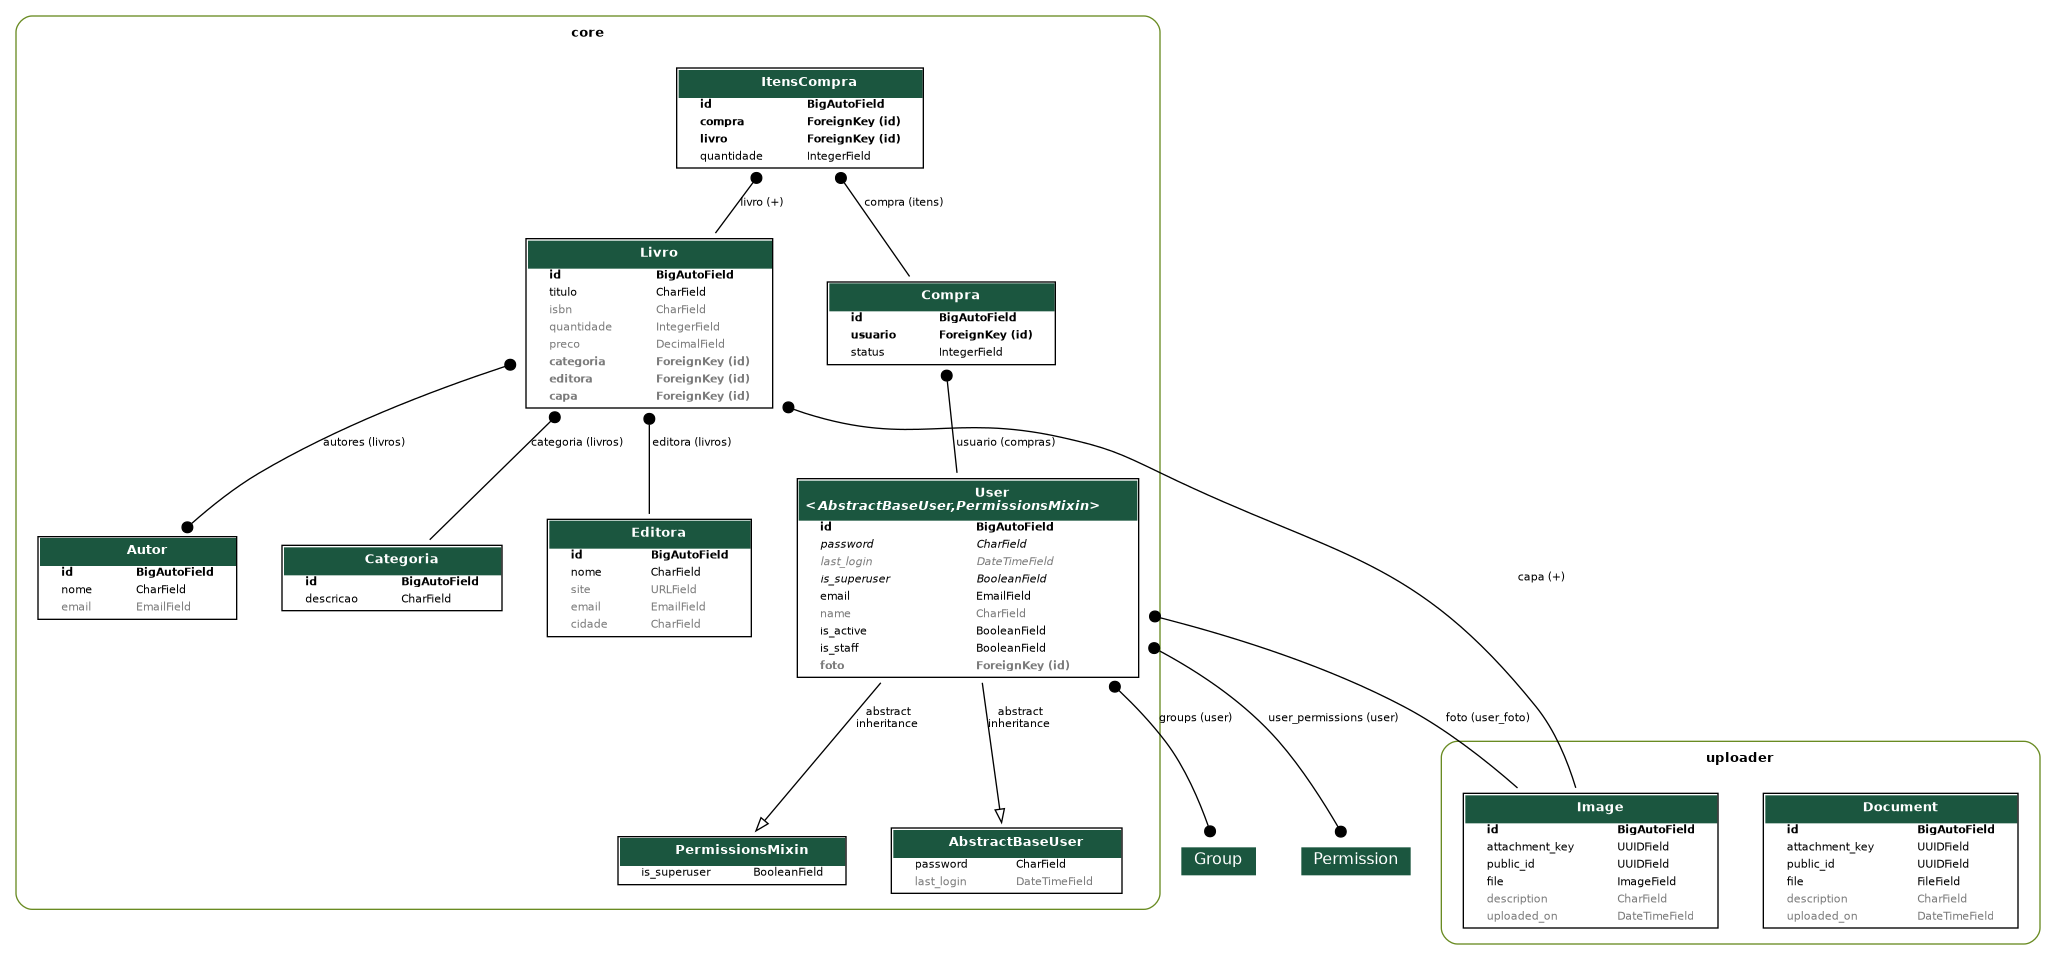
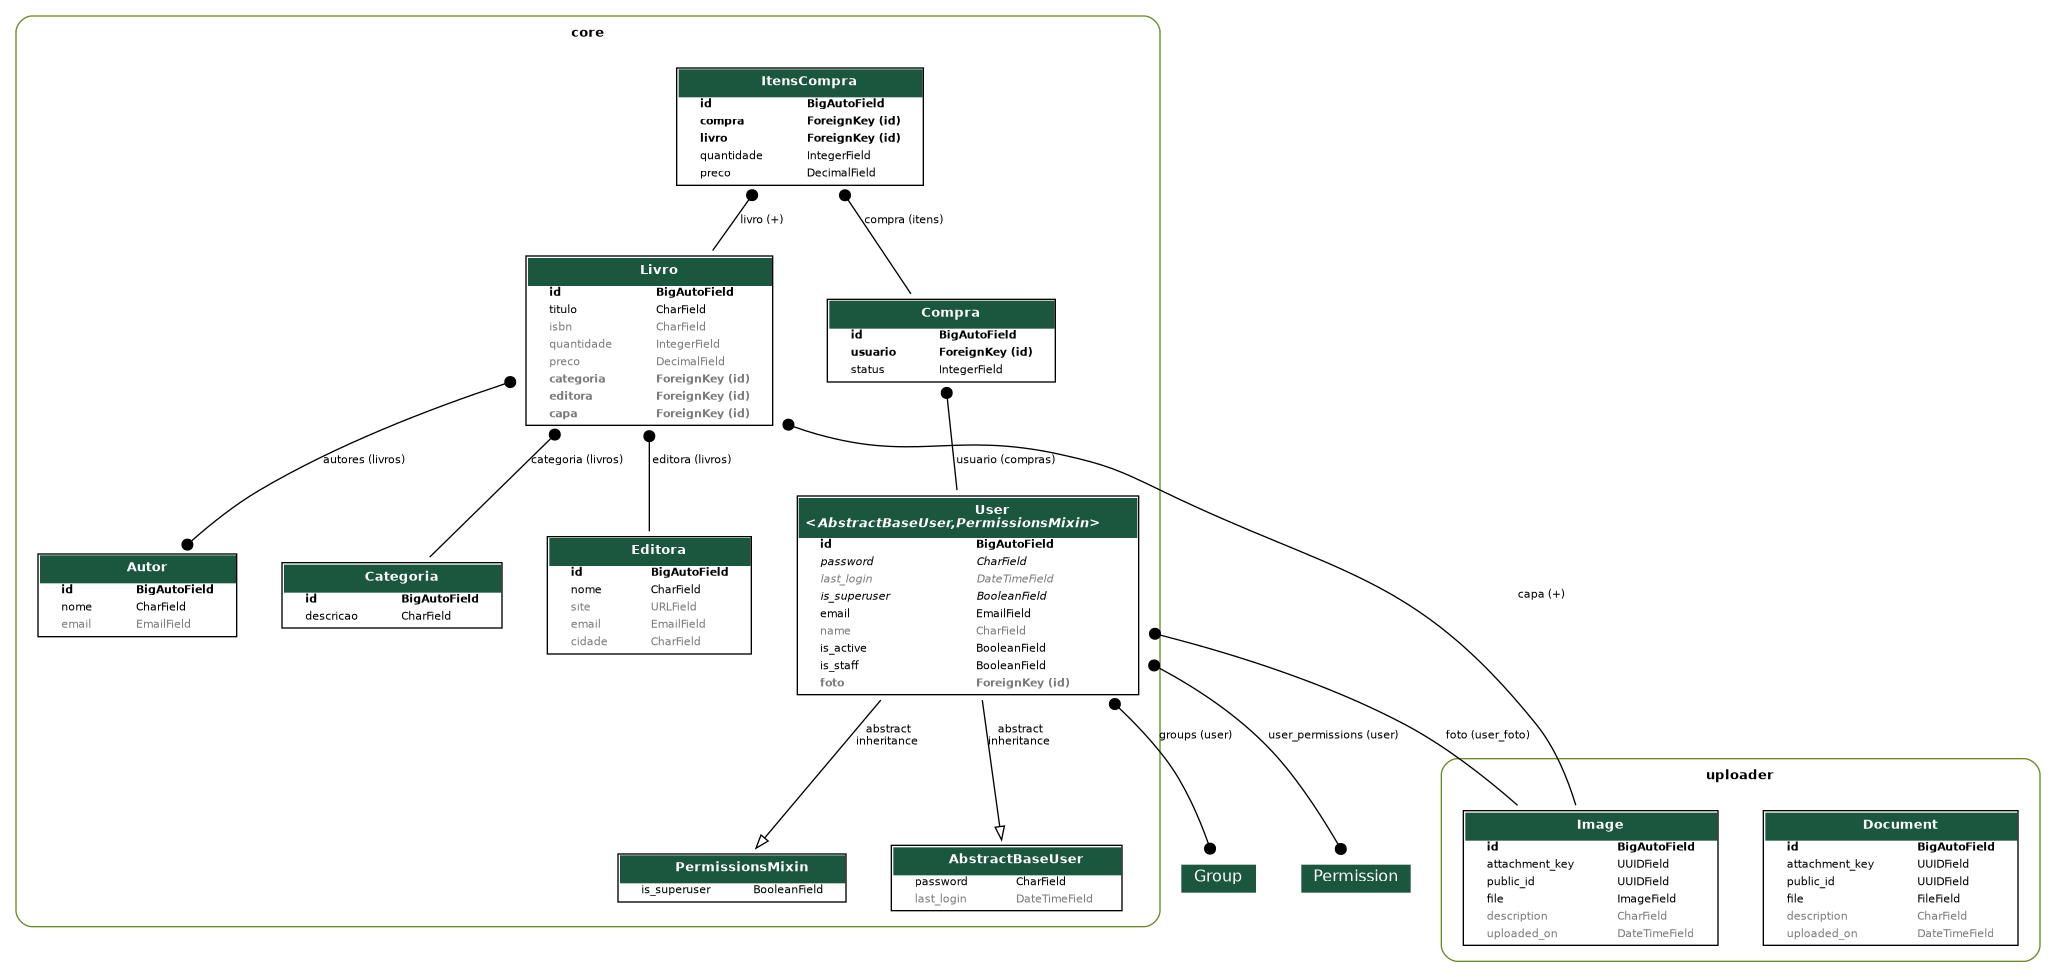
FEAT: Gravação do preço do livro no item da compra

diff --git a/core/serializers/compra.py b/core/serializers/compra.py
@@ -14,7 +14,7 @@ from core.models import Compra, ItensCompra
 class ItensCompraCreateUpdateSerializer(ModelSerializer):
     class Meta:
         model = ItensCompra
-        fields = ('livro', 'quantidade')
+        fields = ('livro', 'quantidade', 'preco')
 
     def validate_quantidade(self, quantidade):
         if quantidade <= 0:
@@ -32,7 +32,24 @@ class ItensCompraListSerializer(ModelSerializer):
 
     class Meta:
         model = ItensCompra
-        fields = ('quantidade', 'livro')
+        fields = ('livro', 'quantidade', 'preco')
+        depth = 1
+
+
+class ItensCompraSerializer(ModelSerializer):
+    titulo = CharField(source='livro.titulo', read_only=True)
+    editora = CharField(source='livro.editora.nome', read_only=True)
+    preco = CharField(source='livro.preco', read_only=True)
+    capa = CharField(source='livro.capa', read_only=True)
+
+    total = SerializerMethodField()
+
+    def get_total(self, instance):
+        return instance.quantidade * instance.preco
+
+    class Meta:
+        model = ItensCompra
+        fields = ('livro', 'quantidade', 'preco', 'total')
         depth = 1
 
 
@@ -49,6 +66,7 @@ class CompraCreateUpdateSerializer(ModelSerializer):
         itens_data = validated_data.pop('itens')
         compra = Compra.objects.create(**validated_data)
         for item_data in itens_data:
+            item_data['preco'] = item_data['livro'].preco
             ItensCompra.objects.create(compra=compra, **item_data)
         compra.save()
         return compra
@@ -59,25 +77,10 @@ class CompraCreateUpdateSerializer(ModelSerializer):
         if itens_data is not None:
             compra.itens.all().delete()
             for item_data in itens_data:
+                item_data['preco'] = item_data['livro'].preco
                 ItensCompra.objects.create(compra=compra, **item_data)
+        compra.save()
         return super().update(compra, validated_data)
-
-
-class ItensCompraSerializer(ModelSerializer):
-    titulo = CharField(source='livro.titulo', read_only=True)
-    editora = CharField(source='livro.editora.nome', read_only=True)
-    preco = CharField(source='livro.preco', read_only=True)
-    capa = CharField(source='livro.capa', read_only=True)
-
-    total = SerializerMethodField()
-
-    def get_total(self, instance):
-        return instance.livro.preco * instance.quantidade
-
-    class Meta:
-        model = ItensCompra
-        fields = ('titulo', 'editora', 'quantidade', 'preco', 'total', 'capa')
-        depth = 1
 
 
 class CompraListSerializer(ModelSerializer):

diff --git a/core/models/compra.py b/core/models/compra.py
@@ -16,10 +16,11 @@ class Compra(models.Model):
 
     @property
     def total(self):
-        return sum(item.livro.preco * item.quantidade for item in self.itens.all())
+        return sum(item.preco * item.quantidade for item in self.itens.all())
 
 
 class ItensCompra(models.Model):
     compra = models.ForeignKey(Compra, on_delete=models.CASCADE, related_name='itens')
     livro = models.ForeignKey(Livro, on_delete=models.PROTECT, related_name='+')
     quantidade = models.IntegerField(default=1)
+    preco = models.DecimalField(max_digits=7, decimal_places=2, default=0)

diff --git a/core/migrations/0016_itenscompra_preco.py b/core/migrations/0016_itenscompra_preco.py
@@ -1,0 +1,18 @@
+# Generated by Django 5.2.13 on 2026-08-18 17:04
+
+from django.db import migrations, models
+
+
+class Migration(migrations.Migration):
+
+    dependencies = [
+        ('core', '0015_itenscompra'),
+    ]
+
+    operations = [
+        migrations.AddField(
+            model_name='itenscompra',
+            name='preco',
+            field=models.DecimalField(decimal_places=2, default=0, max_digits=7),
+        ),
+    ]
